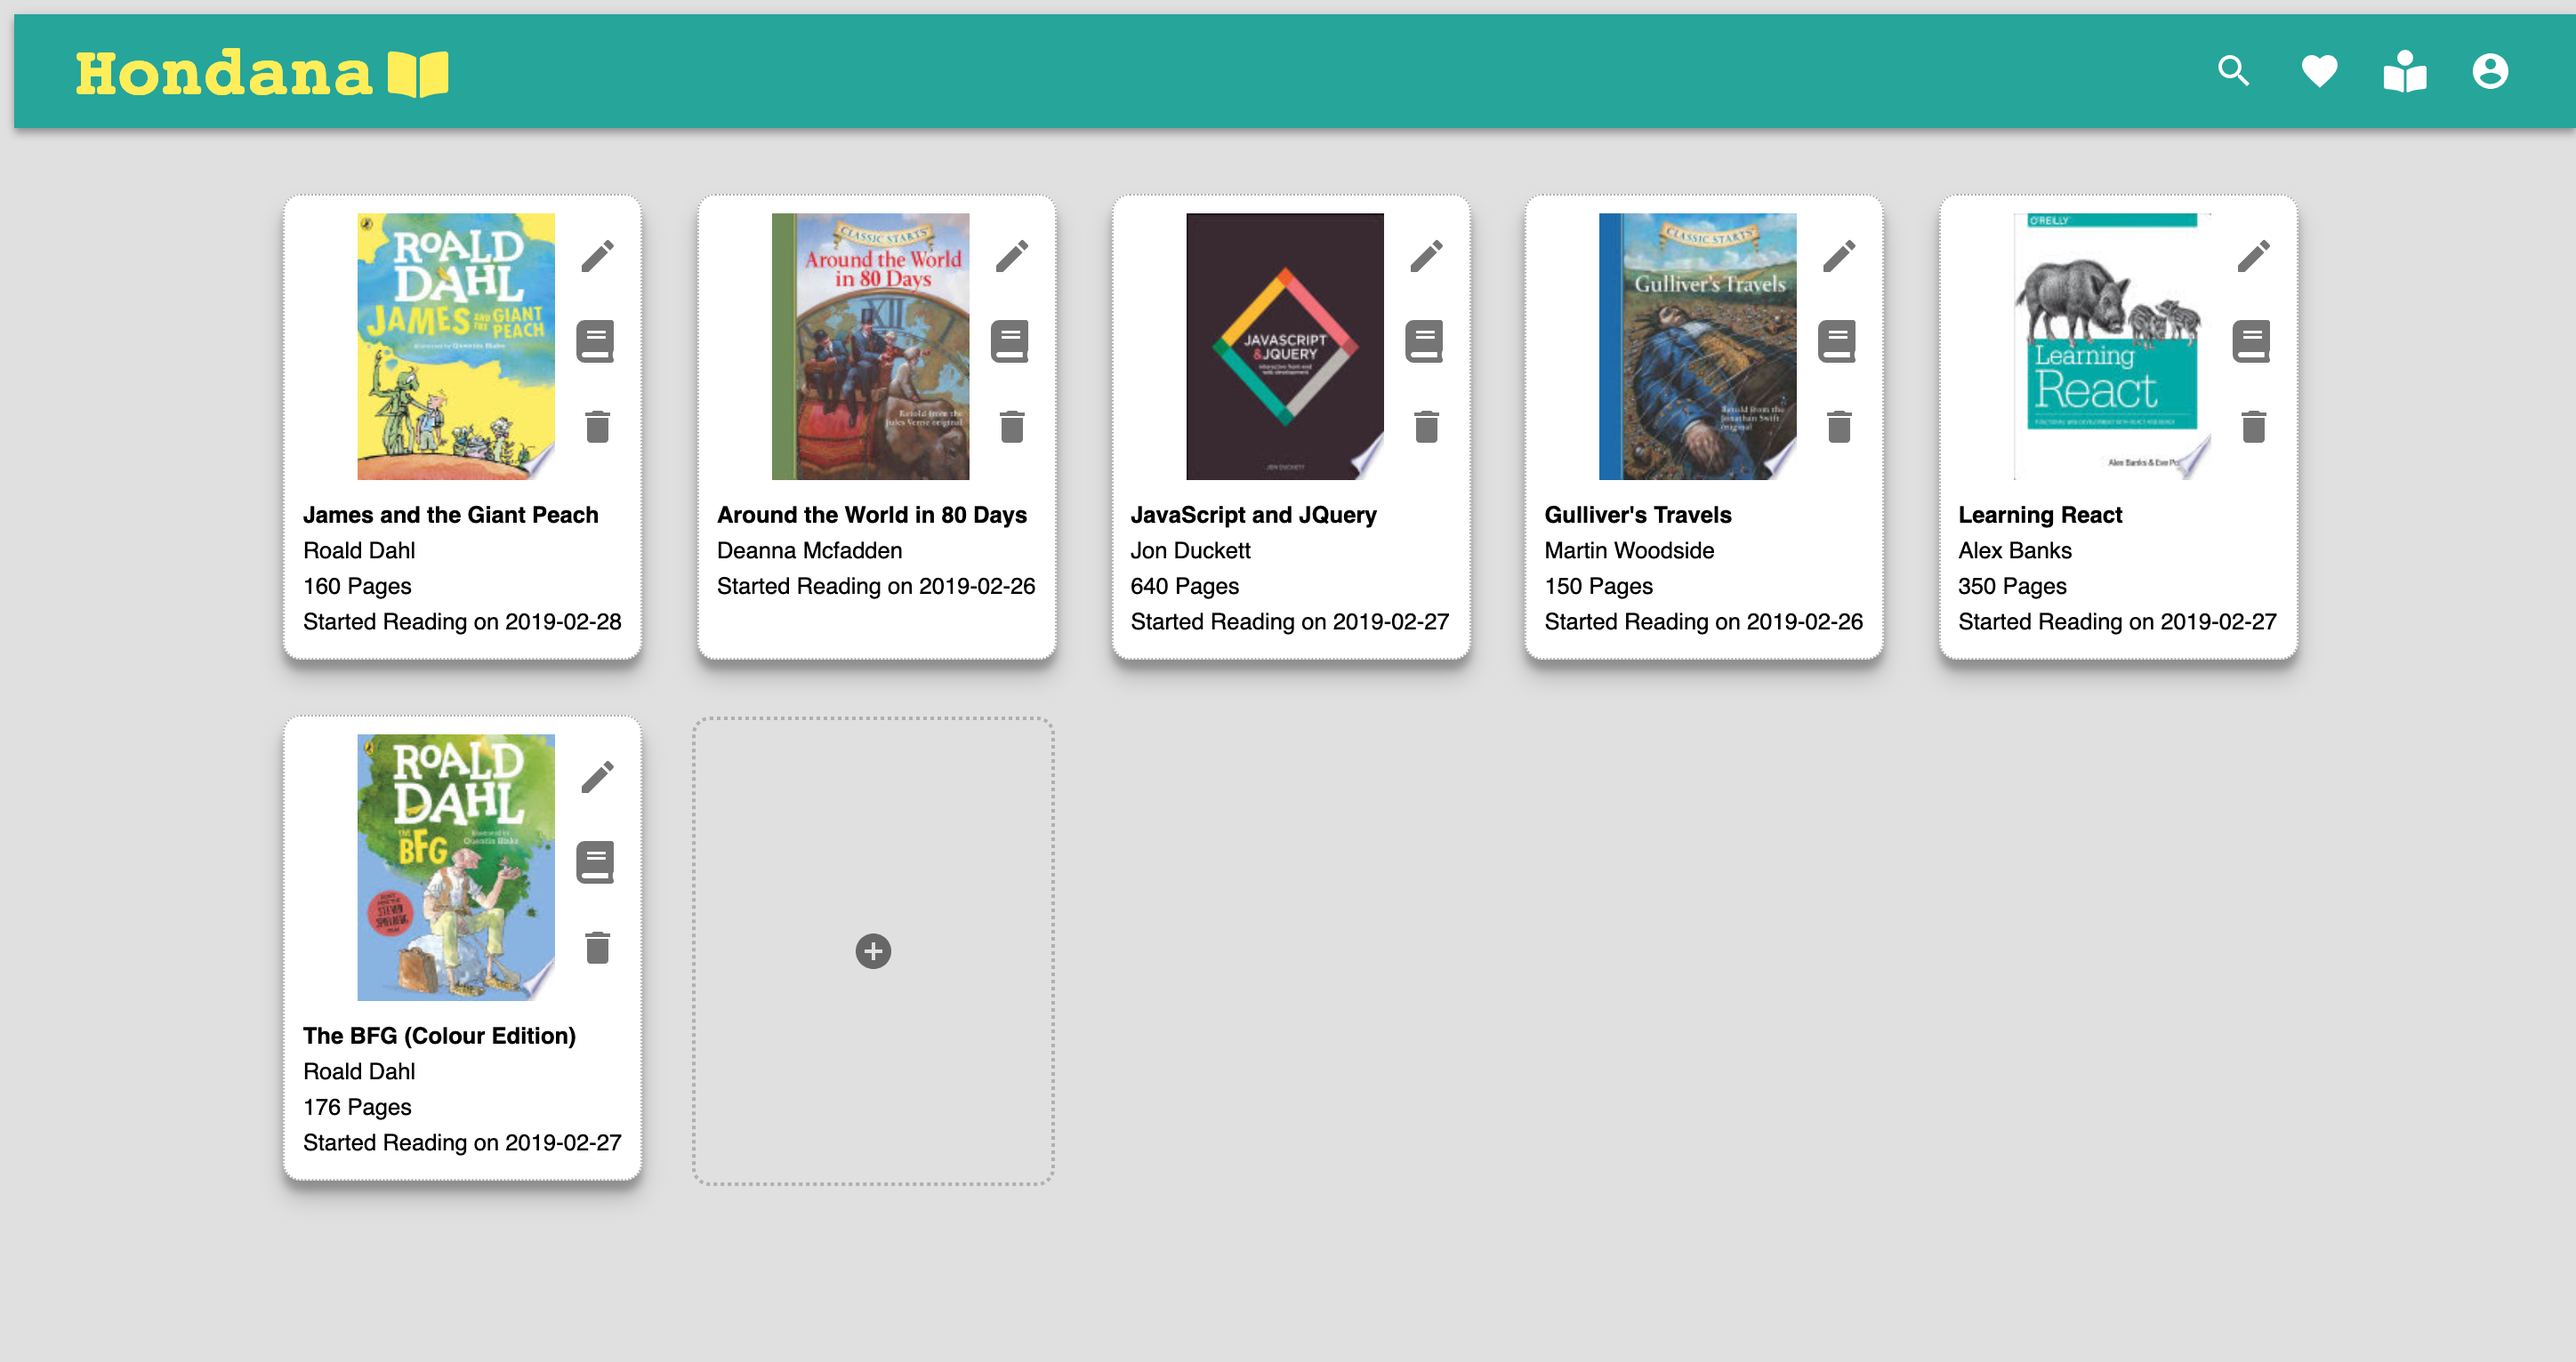
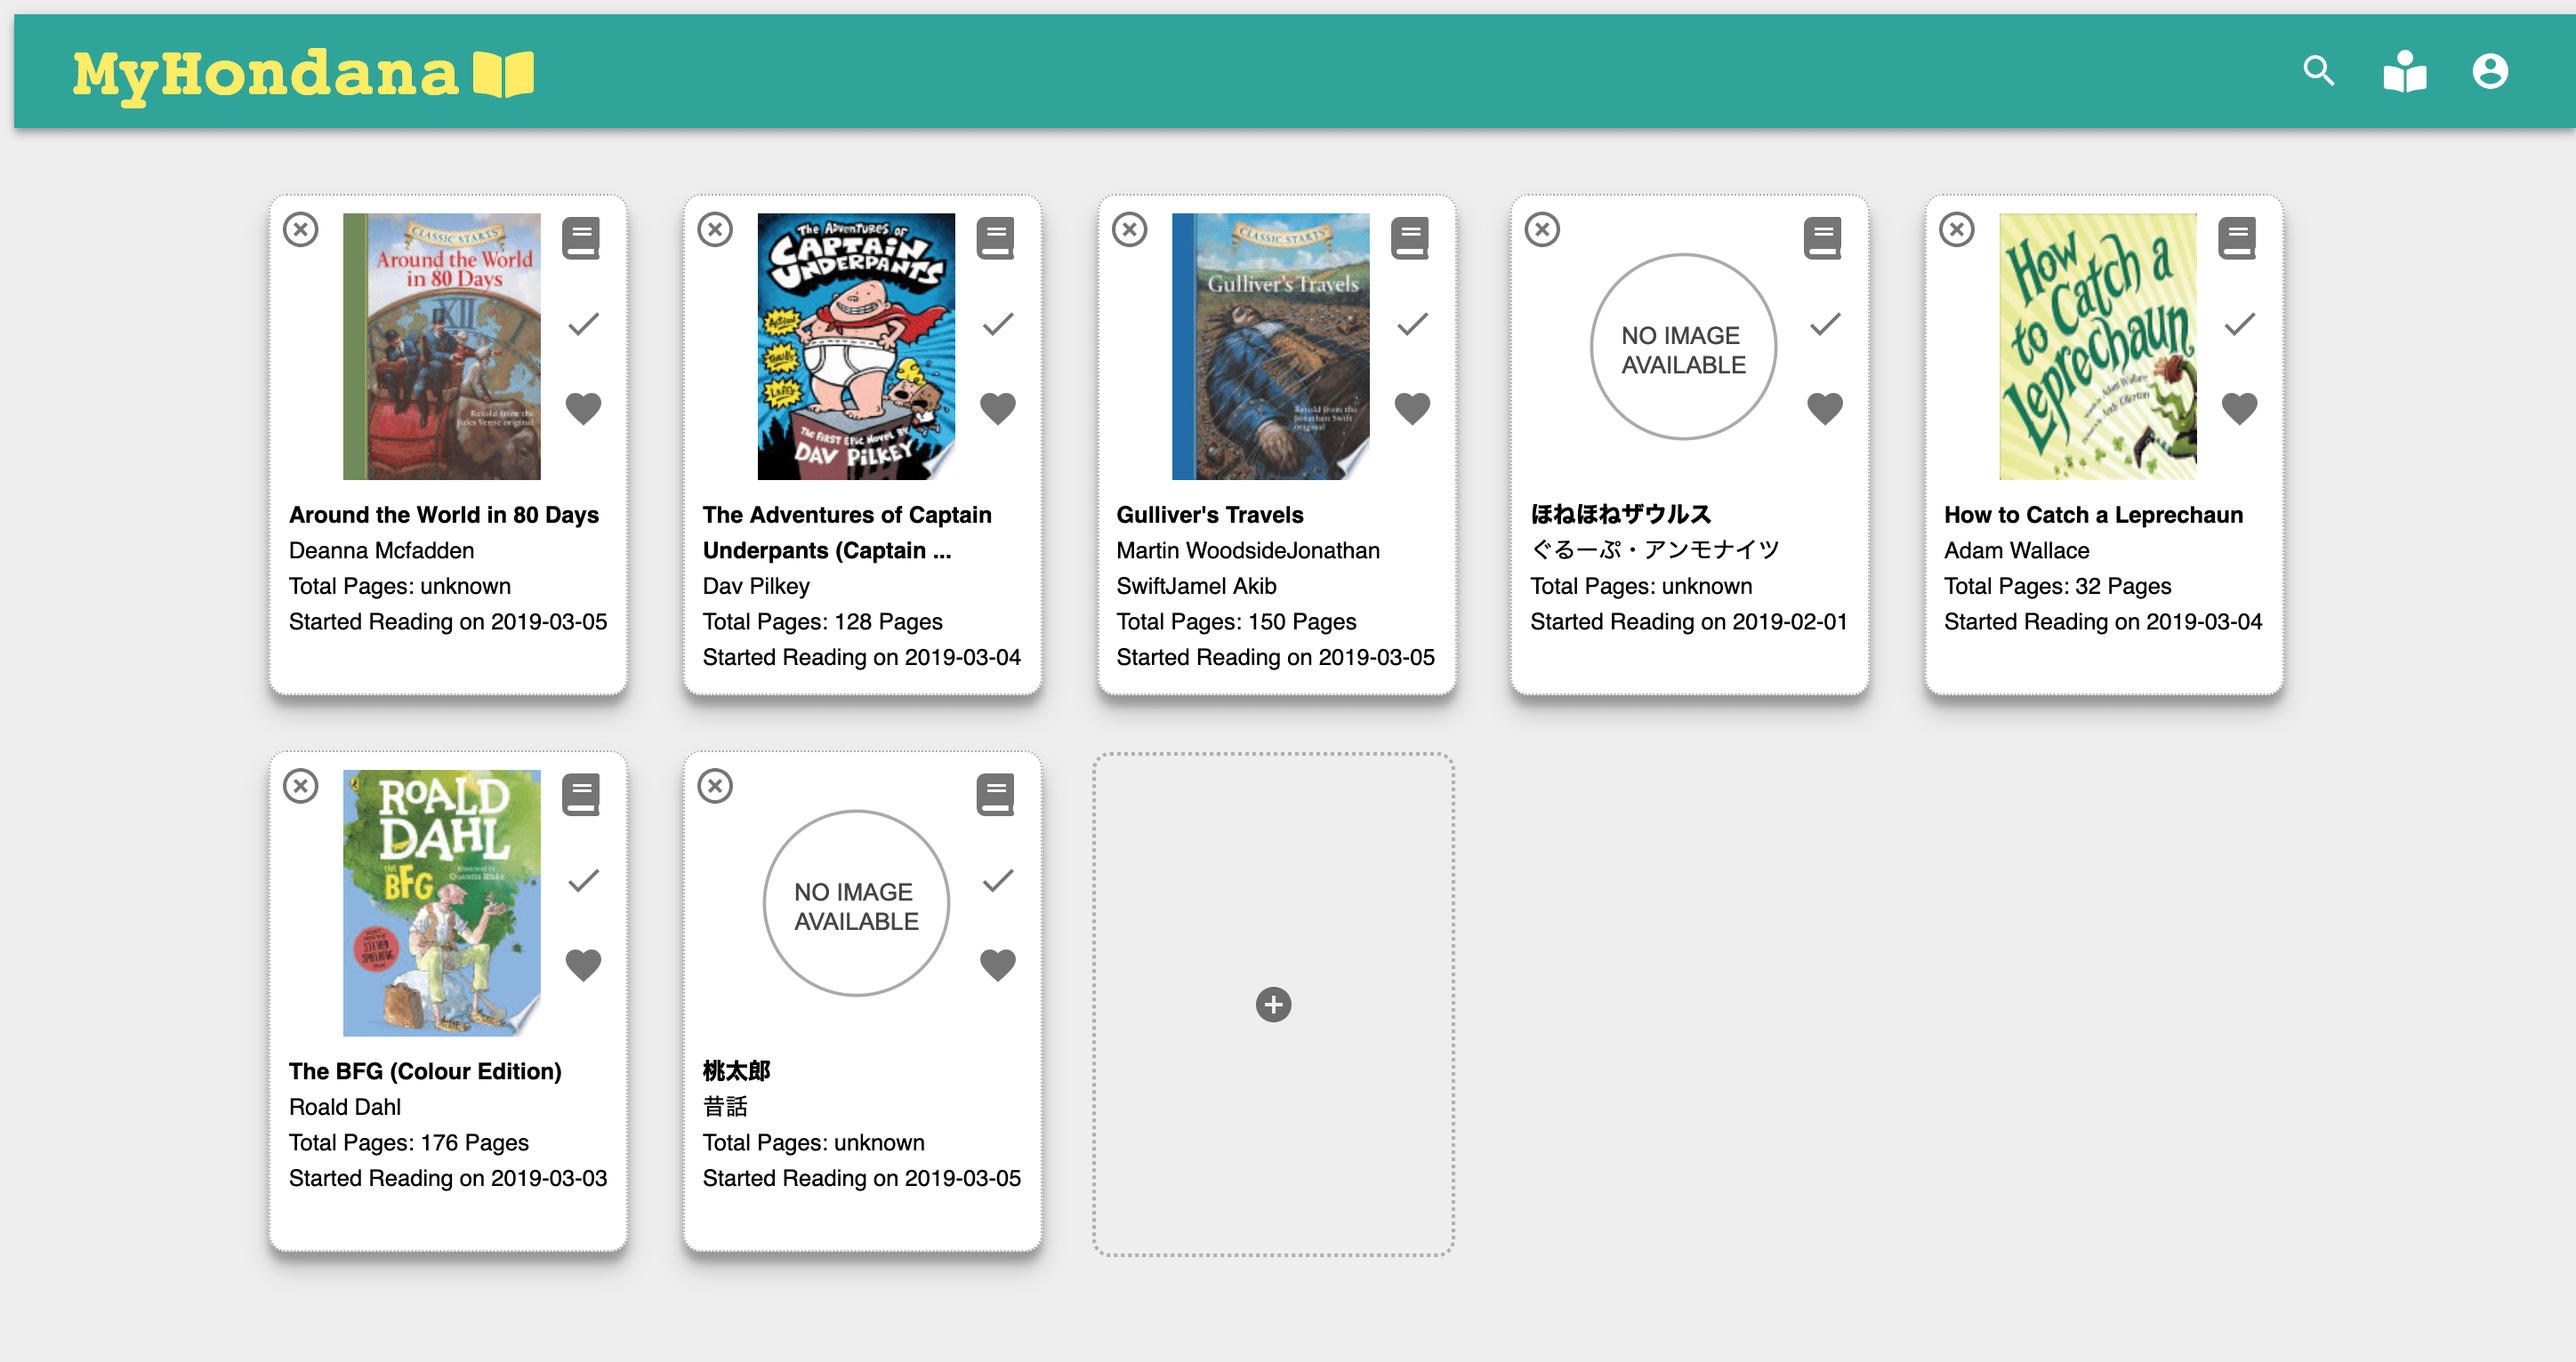
table changed to mui-database

diff --git a/src/components/history/HistoryMain.js b/src/components/history/HistoryMain.js
@@ -13,6 +13,8 @@ import ReactChartkick, { LineChart, ColumnChart } from "react-chartkick";
 import Chart from "chart.js";
 import { firestoreConnect, isLoaded, isEmpty } from "react-redux-firebase";
 import { compose } from "redux";
+import moment from "moment";
+import MUIDataTable from "mui-datatables";
 
 const mainGrid = "mainGrid";
 const leftTable = "leftTable";
@@ -29,6 +31,12 @@ function HistoryMain({ dailyLog }) {
     return <p className="error">No Data Available</p>;
   }
 
+  // For Data Table
+  let dataArray = [];
+  const columns = ["Date", "Pages", "Minutes", "Title", "Author"];
+  // const options = { resizableColumns: true };
+
+  // === creating data for data Table
   const renderList = dailyLog.map((item, idx) => {
     const { logDay, title, authors, pgRead, minutesRead } = item.item;
     const newLogDay = logDay
@@ -37,20 +45,7 @@ function HistoryMain({ dailyLog }) {
           .toJSON()
           .slice(0, 10)
       : "";
-
-    // if (chartType === "table") {
-    return (
-      <TableRow key={idx} className="tablerow">
-        <TableCell component="th" scope="row">
-          {newLogDay}
-        </TableCell>
-        <TableCell align="right">{pgRead}</TableCell>
-        <TableCell align="right">{minutesRead}</TableCell>
-        <TableCell align="right">{title}</TableCell>
-        <TableCell align="right">{authors}</TableCell>
-      </TableRow>
-    );
-    // }
+    dataArray.push([newLogDay, pgRead, minutesRead, title, authors]);
   });
 
   const renderChart = () => {
@@ -76,7 +71,7 @@ function HistoryMain({ dailyLog }) {
       { name: "Pages Read", data: readPage }
     ];
 
-    console.log("data", data);
+    // console.log("data", data);
     return <LineChart data={data} />;
   };
 
@@ -89,27 +84,13 @@ function HistoryMain({ dailyLog }) {
     >
       <Grid item xs={7}>
         <div>
-          <h3>List of Books You Read</h3>
-          <Table className={leftTable}>
-            <colgroup>
-              <col style={{ width: "25%" }} />
-              <col style={{ width: "2%" }} />
-              <col style={{ width: "2%" }} />
-              <col style={{ width: "46%" }} />
-              <col style={{ width: "25%" }} />
-            </colgroup>
-
-            <TableHead style={{ backgroundColor: "#f5f5f5" }}>
-              <TableRow>
-                <TableCell>Date</TableCell>
-                <TableCell>Pages</TableCell>
-                <TableCell>Minutes</TableCell>
-                <TableCell>Title</TableCell>
-                <TableCell>Author</TableCell>
-              </TableRow>
-            </TableHead>
-            <TableBody>{renderList}</TableBody>
-          </Table>
+          {/* <h3>List of Books You Read</h3> */}
+          <MUIDataTable
+            title={"List of Book Read"}
+            data={dataArray}
+            columns={columns}
+            // options={options}
+          />
         </div>
       </Grid>
       <Grid item xs={5} className="charts">
@@ -145,6 +126,7 @@ function HistoryMain({ dailyLog }) {
 }
 
 function mapStateToProps(state) {
+  // console.log(state);
   return {
     dailyLog: state.firestore.ordered.dailyLog
       ? state.firestore.ordered.dailyLog
@@ -162,7 +144,8 @@ export default compose(
     return [
       {
         collection: "dailyLog",
-        queryParams: ["orderByChild=item.logDay.seconds"]
+        // orderBy: [["logDay",'desc']]
+        queryParams: ["orderByChild=logDay"]
       }
     ];
   })

diff --git a/src/components/bookLog/DailyLog.js b/src/components/bookLog/DailyLog.js
@@ -34,13 +34,13 @@ class DailyLog extends React.Component {
     });
   };
 
-  isValidDate(dateString) {
-    let regEx = /^\d{4}-\d{2}-\d{2}$/;
-    if (!dateString.match(regEx)) return false; // Invalid format
-    let dt = new Date(dateString);
-    if (Number.isNaN(dt.getTime())) return false; // Invalid date
-    return d.toISOString().slice(0, 10) === dateString;
-  }
+  // isValidDate(dateString) {
+  //   let regEx = /^\d{2}\d{2}-\d{2}$/;
+  //   if (!dateString.match(regEx)) return false; // Invalid format
+  //   let dt = new Date(dateString);
+  //   if (Number.isNaN(dt.getTime())) return false; // Invalid date
+  //   return d.toJSON().slice(0, 10) === dateString;
+  // }
 
   onClose = () => {
     this.setState({ open: false });
@@ -61,17 +61,19 @@ class DailyLog extends React.Component {
       });
       return;
     }
-    if (!this.isValidDate(this.state.logDay)) {
-      this.setState({
-        errorText: "Invalid Log Date. Format should be YYYY-MM-DD"
-      });
-      return;
-    }
+    // if (!this.isValidDate(this.state.logDay)) {
+    //   this.setState({
+    //     errorText: "Invalid Log Date."
+    //   });
+    //   return;
+    // }
 
     this.props.onDailyLogAdd({
       ...this.state,
       logDay: new Date(this.state.logDay),
-      bookId: this.props.id
+      bookId: this.props.id,
+      pgRead: parseInt(this.state.pgRead),
+      minutesRead: parseInt(this.state.minutesRead)
     });
     this.setState({
       open: false
@@ -117,6 +119,7 @@ class DailyLog extends React.Component {
                       required
                       id="logDay"
                       label="Log Date"
+                      type="Date"
                       onChange={this.handleChange("logDay")}
                       defaultValue={logDay}
                       InputLabelProps={{

diff --git a/src/components/bookLog/DailyLogRight.js b/src/components/bookLog/DailyLogRight.js
@@ -1,9 +1,10 @@
 import React from "react";
 import { connect } from "react-redux";
 import { compose } from "redux";
-import { firestoreConnect,isLoaded, isEmpty } from "react-redux-firebase";
+import { firestoreConnect, isLoaded, isEmpty } from "react-redux-firebase";
 import { Col } from "react-flexbox-grid";
 import "./DailyLogRight.css";
+import moment from "moment";
 
 function DailyLogRight({ dailyLog }) {
   if (!isLoaded(dailyLog)) {
@@ -15,13 +16,9 @@ function DailyLogRight({ dailyLog }) {
   }
 
   const pastRecord = dailyLog.map((item, idx) => {
-    // console.log("item", item);
     const { logDay, pgRead, minutesRead } = item.item;
     const histDay = logDay
-      ? logDay
-          .toDate()
-          .toJSON()
-          .slice(0, 10)
+      ? moment(logDay.toDate().toJSON()).format("YYYY-MM-DD")
       : "";
     const record1 = `${histDay}: ${pgRead} pages(${minutesRead} mins)`;
 

diff --git a/src/components/nav/AppBar.js b/src/components/nav/AppBar.js
@@ -121,7 +121,7 @@ class PrimarySearchAppBar extends React.Component {
             <Typography className="title" variant="h6" color="inherit" noWrap>
               <span>
                 <Link to={"/"} className="brand">
-                  Hondana
+                  MyHondana
                   <FontAwesomeIcon className="logo" icon={faBookOpen} />
                 </Link>
               </span>
@@ -134,9 +134,9 @@ class PrimarySearchAppBar extends React.Component {
                 </IconButton>
               </Link>
 
-              <IconButton className="link white" disabled>
+              {/* <IconButton className="link white" disabled>
                 <Favorite />
-              </IconButton>
+              </IconButton> */}
               <Link to={"/history"} className="link white">
                 <IconButton color="inherit">
                   <FontAwesomeIcon icon={faBookReader} />

diff --git a/src/components/bookLog/DeleteIcon.js b/src/components/bookLog/DeleteIcon.js
@@ -25,7 +25,7 @@ class DeleteBookLog extends Component {
 
   onDeleteRequest = event => {
     event.preventDefault();
-    console.log(this.props.id);
+    // console.log(this.props.id);
     this.props.onDeleteBookLog({ id: this.props.id });
     this.setState({ open: false });
   };

diff --git a/public/index.html b/public/index.html
@@ -27,7 +27,7 @@
     />
     <title>React App</title>
   </head>
-  <body style="background-color: #e0e0e0  ">
+  <body style="background-color: #eeeeee  ">
     <noscript>You need to enable JavaScript to run this app.</noscript>
     <div id="root"></div>
     <!--

diff --git a/src/components/bookLog/BookLogMain.css b/src/components/bookLog/BookLogMain.css
@@ -8,7 +8,7 @@
 .sample {
   /* box-sizing: conten-box; */
   border: 2px dotted rgb(175, 175, 175);
-  height: 260px;
+  height: 280px;
   width: 200px;
   margin: 1.6vh;
   display: inline-flex;

diff --git a/README.md b/README.md
@@ -1,6 +1,10 @@
-## Hondana
+## MyHondana: My Bookshelf
 
+<h3> Main Page</h3>
 <img src = "screenshot/mainpage.png">
+
+<h3> Table Page</h3>
+<img src = "screenshot/graph.png">
 
 ### Features
 
@@ -17,6 +21,7 @@
 - Material-ui
 - CSS, FontAwesome
 - Chartkick
+- mui-datatables
 
 [ Back-end ]
 
